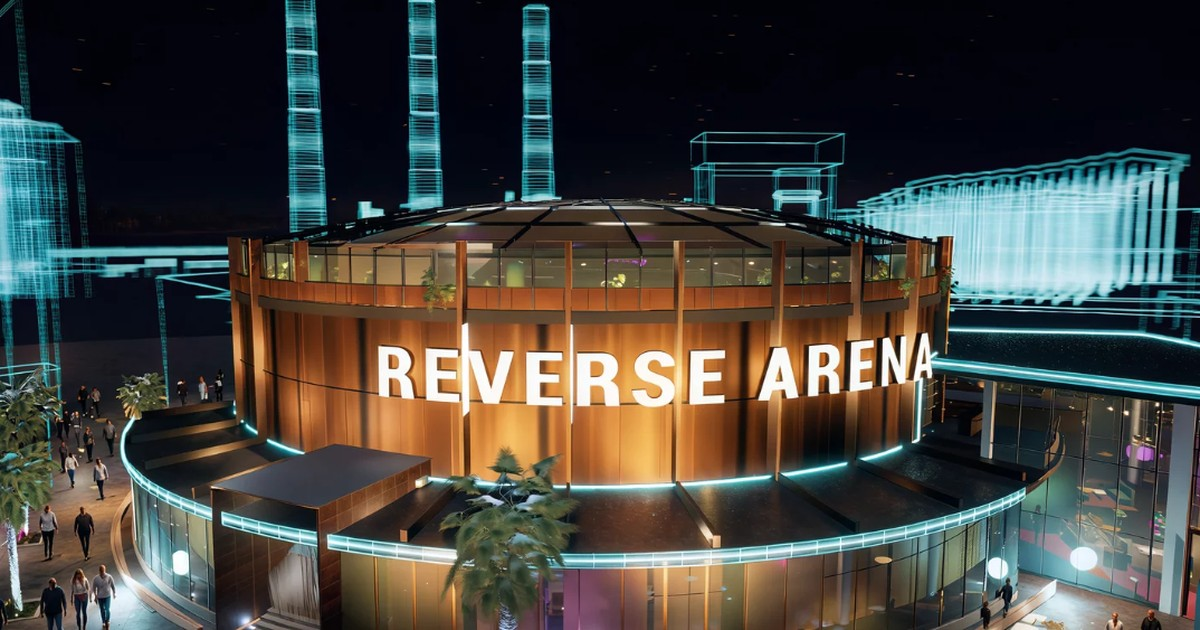
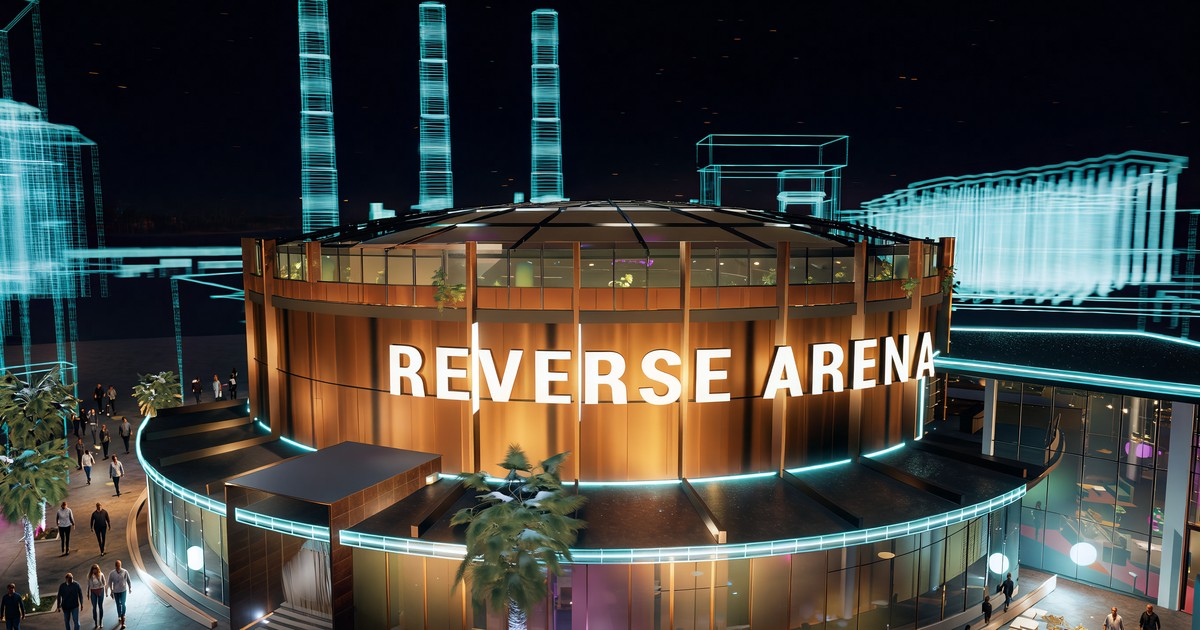
Title card and link picture from the Kling original; phones use their own full-screen player for both films
Claude-Session: https://claude.ai/code/session_017AzRbKXGXk6Kv6NqyS7rBT

diff --git a/index.html b/index.html
@@ -182,7 +182,7 @@ body.easy .top,body.easy .wrap,body.easy #ctl,body.easy #caption,body.easy #choo
 #introPlay{width:92px;height:92px;border-radius:50%;border:2px solid var(--gold);background:#0008;color:var(--gold);display:grid;place-items:center;cursor:pointer;transition:transform .15s,background .15s}
 #introPlay:hover{transform:scale(1.06);background:#f0c35a22} #introPlay svg{width:38px;height:38px;margin-left:6px}
 #introSkip{position:absolute;right:max(16px,env(safe-area-inset-right,0px));bottom:calc(16px + env(safe-area-inset-bottom,0px));z-index:3;border:1px solid var(--line2);background:#0009;color:var(--text);border-radius:999px;padding:9px 16px;font:500 13px Outfit,Arial,sans-serif;cursor:pointer}
-#intro.playing .ip{display:none} #intro .poster{position:absolute;inset:0;background:#000 center/cover no-repeat;opacity:.9}
+#intro .ip{transform:translateY(clamp(120px,27vh,260px))} #intro.playing .ip{display:none} #intro .poster{position:absolute;inset:0;background:#000 center/cover no-repeat;opacity:.9}
 #intro .poster::after{content:'';position:absolute;inset:0;background:radial-gradient(ellipse at center,#0006 0%,#0000 45%,#0007 100%)}
 /* v40: the arrival film opens the page; at its end the same picture says Start the Show */
 #intro #arrVid{display:none} #intro.arr #arrVid{display:block;z-index:1} #intro.arr #introVid{display:none}
@@ -198,8 +198,9 @@ body.easy .top,body.easy .wrap,body.easy #ctl,body.easy #caption,body.easy #choo
 @keyframes ssPulse{0%,100%{box-shadow:0 0 0 0 #f0c35a77}50%{box-shadow:0 0 0 16px #f0c35a00}}
 #intro.arr:not(.arr-end) #xsl{display:none!important} #intro.arr-end #xsl{opacity:1;pointer-events:auto}
 @media (prefers-reduced-motion:reduce){#startShow{animation:none}}
+@media (orientation:portrait){ #intro .poster{background-size:contain} #intro .ip{transform:translateY(clamp(110px,22vh,240px))} }
 @media (min-aspect-ratio:4/3){ #intro video{object-fit:cover} }
-#intro .ip{gap:clamp(10px,2.2vh,22px)}#intro .ip h1{order:1;font-size:clamp(24px,5.2vw,62px);letter-spacing:.14em;text-shadow:0 2px 22px #000c}#intro .ip small{order:2;font-size:clamp(14px,1.6vw,18px);letter-spacing:.06em;margin-top:-.3em;text-shadow:0 2px 14px #000c}/* 16 Nov, his note (the flat yellow disc was not stylish): dark glass, a thin gold ring, the arrow lit from inside, slow rings rippling out */#introPlay{order:3;margin-top:clamp(10px,3vh,34px);position:relative;width:clamp(96px,13vw,132px);height:clamp(96px,13vw,132px);border:1.5px solid #f0c35ad9;background:radial-gradient(circle at 50% 30%,#ffffff2e 0%,#17120a8c 55%,#0b0a0d99 100%);color:#f8d98a;-webkit-backdrop-filter:blur(12px) saturate(1.3);backdrop-filter:blur(12px) saturate(1.3);box-shadow:0 0 0 8px #f0c35a12,0 18px 54px #000d,inset 0 1px 0 #ffffff55,inset 0 -12px 26px #0009;animation:none}#introPlay::before,#introPlay::after{content:'';position:absolute;inset:-1.5px;border-radius:50%;border:1px solid #f0c35a;opacity:0;pointer-events:none;animation:ipRing 3.4s cubic-bezier(.2,.6,.3,1) infinite}#introPlay::after{animation-delay:1.7s}@keyframes ipRing{0%{transform:scale(1);opacity:.6}100%{transform:scale(1.8);opacity:0}}#introPlay svg{width:34%;height:34%;margin-left:7%;filter:drop-shadow(0 0 12px #f0c35a99)}#introPlay:hover{transform:scale(1.06);border-color:#ffe19a;background:radial-gradient(circle at 50% 30%,#ffffff45 0%,#2a2010a0 55%,#0b0a0d99 100%)}@media (prefers-reduced-motion:reduce){#introPlay::before,#introPlay::after{animation:none}}#intro .ip::after{content:'Play the film \00b7  90 seconds, with sound';order:4;font:500 clamp(12px,1.5vw,16px) Outfit,Arial,sans-serif;letter-spacing:.18em;text-transform:uppercase;color:#f6ecd6;text-shadow:0 2px 12px #000c}@keyframes ipPulse{0%{box-shadow:0 0 0 0 #f0c35a99,0 12px 40px #000a}70%{box-shadow:0 0 0 28px #f0c35a00,0 12px 40px #000a}100%{box-shadow:0 0 0 0 #f0c35a00,0 12px 40px #000a}}#intro .poster::after{background:radial-gradient(ellipse at center,#0008 0%,#0004 38%,#0000 70%)}#intro .poster{opacity:1}   /* the film's own first frame carries the name: the landing is the film and a play button */
+#intro .ip{gap:clamp(10px,2.2vh,22px)}#intro .ip h1{order:1;font-size:clamp(24px,5.2vw,62px);letter-spacing:.14em;text-shadow:0 2px 22px #000c}#intro .ip small{order:2;font-size:clamp(14px,1.6vw,18px);letter-spacing:.06em;margin-top:-.3em;text-shadow:0 2px 14px #000c}/* 16 Nov, his note (the flat yellow disc was not stylish): dark glass, a thin gold ring, the arrow lit from inside, slow rings rippling out */#introPlay{order:3;margin-top:clamp(10px,3vh,34px);position:relative;width:clamp(96px,13vw,132px);height:clamp(96px,13vw,132px);border:1.5px solid #f0c35ad9;background:radial-gradient(circle at 50% 30%,#ffffff2e 0%,#17120a8c 55%,#0b0a0d99 100%);color:#f8d98a;-webkit-backdrop-filter:blur(12px) saturate(1.3);backdrop-filter:blur(12px) saturate(1.3);box-shadow:0 0 0 8px #f0c35a12,0 18px 54px #000d,inset 0 1px 0 #ffffff55,inset 0 -12px 26px #0009;animation:none}#introPlay::before,#introPlay::after{content:'';position:absolute;inset:-1.5px;border-radius:50%;border:1px solid #f0c35a;opacity:0;pointer-events:none;animation:ipRing 3.4s cubic-bezier(.2,.6,.3,1) infinite}#introPlay::after{animation-delay:1.7s}@keyframes ipRing{0%{transform:scale(1);opacity:.6}100%{transform:scale(1.8);opacity:0}}#introPlay svg{width:34%;height:34%;margin-left:7%;filter:drop-shadow(0 0 12px #f0c35a99)}#introPlay:hover{transform:scale(1.06);border-color:#ffe19a;background:radial-gradient(circle at 50% 30%,#ffffff45 0%,#2a2010a0 55%,#0b0a0d99 100%)}@media (prefers-reduced-motion:reduce){#introPlay::before,#introPlay::after{animation:none}}#intro .ip::after{content:'Play the film, with sound';order:4;font:500 clamp(12px,1.5vw,16px) Outfit,Arial,sans-serif;letter-spacing:.18em;text-transform:uppercase;color:#f6ecd6;text-shadow:0 2px 12px #000c}@keyframes ipPulse{0%{box-shadow:0 0 0 0 #f0c35a99,0 12px 40px #000a}70%{box-shadow:0 0 0 28px #f0c35a00,0 12px 40px #000a}100%{box-shadow:0 0 0 0 #f0c35a00,0 12px 40px #000a}}#intro .poster::after{background:radial-gradient(ellipse at center,#0008 0%,#0004 38%,#0000 70%)}#intro .poster{opacity:1}   /* the film's own first frame carries the name: the landing is the film and a play button */
 /* 17 Nov: the backstage cross slider on the film (z-film.js, XS): Show on the left, the backstage director channel on the right */
 #xsl{position:absolute;left:50%;bottom:calc(18px + env(safe-area-inset-bottom,0px));transform:translateX(-50%);z-index:4;width:min(440px,calc(100% - 32px));box-sizing:border-box;display:flex;align-items:center;gap:4px;padding:5px 8px;border-radius:999px;background:#0a090ec4;border:1px solid #f0c35a3d;-webkit-backdrop-filter:blur(12px) saturate(1.2);backdrop-filter:blur(12px) saturate(1.2);box-shadow:0 10px 34px #0009;opacity:0;pointer-events:none;transition:opacity .45s;--x:0;-webkit-user-select:none;user-select:none}
 #xsl[hidden]{display:none!important}
@@ -239,7 +240,7 @@ body.easy #room canvas{transition:opacity .7s} body.ezwait #room canvas{opacity:
 </style>
 <div id="room">
   <canvas id="gl" aria-label="Three-dimensional model of the Reverse Arena Theater. Drag to look around, scroll or pinch to move closer, tap a seat to sit there."></canvas>
-  <div id="intro"><div class="poster" style="background-image:url(arrival-poster.jpg)"></div><div class="ver" style="position:absolute;left:14px;bottom:10px;font:500 11px Outfit,system-ui,sans-serif;letter-spacing:.16em;color:rgba(255,255,255,.55);z-index:5">VERSION 40a</div>
+  <div id="intro"><div class="poster" style="background-image:url(title-card.jpg)"></div><div class="ver" style="position:absolute;left:14px;bottom:10px;font:500 11px Outfit,system-ui,sans-serif;letter-spacing:.16em;color:rgba(255,255,255,.55);z-index:5">VERSION 40a</div>
     <div class="ip"><small>Turn the sound up and press play.</small><button id="introPlay" type="button" aria-label="Play the film"><svg viewBox="0 0 24 24" fill="currentColor"><path d="M7 4.5v15l13-7.5z"/></svg></button></div></div>
   <div id="choose" hidden><div class="ver" style="position:absolute;right:14px;bottom:10px;font:500 11px Outfit,system-ui,sans-serif;letter-spacing:.16em;color:rgba(255,255,255,.55)">VERSION 40a</div><div class="ch-in"><small>REVERSE ARENA THEATER &middot; BARCELONA</small><h2>Step inside</h2>
     <div class="ch-row"><button type="button" id="chTour"><b>Watch the tour</b><span>The room, built piece by piece, with your host</span></button>
@@ -455,7 +456,7 @@ function play(){ chooseHide(); I.hidden=false; I.classList.remove('gone'); I.cla
   window.__norender=true; if(IN.hooks.play) IN.hooks.play();
   const v=setup(); FV.want=true; if(v.currentTime>0){ try{ v.currentTime=0; }catch(e){} }
   if(!XS.ctx&&!XS.failed) xsInit(); xsGesture(); xsWake();   /* the backstage tracks: unlock the sound in this press */
-  const phone=isPhone(), ios=phone&&v.webkitEnterFullscreen&&!(document.fullscreenEnabled&&I.requestFullscreen)&&!xsUse();   /* iPhone: with the slider ready the film plays in the page so the slider stays in reach */
+  const phone=isPhone(), ios=phone&&v.webkitEnterFullscreen&&!(document.fullscreenEnabled&&I.requestFullscreen);   /* iPhone: with the slider ready the film plays in the page so the slider stays in reach */
   if(ios) XS.failed=true;
   if(ios){ v.removeAttribute('playsinline'); v.playsInline=false; }   // iPhone: without playsinline, play() opens the phone's own full-screen player
   startPlay(v);   // in the same tap, nothing waited on before it, so the sound is allowed
@@ -467,10 +468,15 @@ const AR={vid:null};
 { const e=document.createElement('div'); e.id='arrEnd'; e.hidden=true; e.innerHTML='<div id="ssBox"><div id="ssLabel">Start the Show</div><button id="startShow" type="button" aria-label="Start the show"><svg viewBox="0 0 24 24" fill="currentColor"><path d="M7 4.5v15l13-7.5z"/></svg></button></div>'; I.appendChild(e); }
 function arrLayout(){ const v=AR.vid, b=$('ssBox'); if(!b) return; const vw=(v&&v.videoWidth)||1280, vh=(v&&v.videoHeight)||720, W=I.clientWidth, H=I.clientHeight, cover=W/H>=4/3, k=cover?Math.max(W/vw,H/vh):Math.min(W/vw,H/vh), rw=vw*k, rh=vh*k, ox=(W-rw)/2, oy=(H-rh)/2; const D=92; const cx=ox+rw*0.5, cy=Math.max(H*0.42,Math.min(H*0.8,oy+rh*0.62)); b.style.width=b.style.height=D+'px'; b.style.left=(cx-D/2)+'px'; b.style.top=(cy-D/2)+'px'; }
 window.addEventListener('resize',()=>{ if(!$('arrEnd').hidden) arrLayout(); });
-function arrSetup(){ if(AR.vid) return AR.vid; const v=document.createElement('video'); v.id='arrVid'; v.src='f39/arrival.mp4'; v.setAttribute('playsinline',''); v.playsInline=true; v.preload='auto'; v.poster='arrival-poster.jpg'; I.insertBefore(v,I.querySelector('.ip')); v.addEventListener('ended',arrEnd); AR.vid=v; return v; }
-function arrEnd(){ if(!I.classList.contains('arr')||I.classList.contains('arr-end')) return; I.classList.add('arr-end'); $('arrEnd').hidden=false; arrLayout(); sk.hidden=true; sb.hidden=true; if(!XS.ctx&&!XS.failed) xsInit(); xsUI(); xsWake(); }
+function arrSetup(){ if(AR.vid) return AR.vid; const v=document.createElement('video'); v.id='arrVid'; v.src='f39/arrival.mp4'; v.setAttribute('playsinline',''); v.playsInline=true; v.preload='auto'; v.poster='title-card.jpg'; I.insertBefore(v,I.querySelector('.ip')); v.addEventListener('ended',arrEnd); v.addEventListener('webkitendfullscreen',()=>{ if(I.classList.contains('arr')&&!I.classList.contains('arr-end')){ try{ v.pause(); }catch(e){} arrEnd(); } }); AR.vid=v; return v; }
+function arrEnd(){ if(!I.classList.contains('arr')||I.classList.contains('arr-end')) return; I.classList.add('arr-end'); { const v=AR.vid; if(v){ try{ if(v.webkitDisplayingFullscreen) v.webkitExitFullscreen(); }catch(e){} v.setAttribute('playsinline',''); v.playsInline=true; } } $('arrEnd').hidden=false; arrLayout(); sk.hidden=true; sb.hidden=true; if(!XS.ctx&&!XS.failed) xsInit(); xsUI(); xsWake(); }
 function arrPlay(){ chooseHide(); FV.want=false; I.hidden=false; clearTimeout(AR.out); I.classList.remove('gone','arr-end','arr-out'); I.classList.add('playing','arr'); $('arrEnd').hidden=true; sk.hidden=false; sb.hidden=true; IN.playing=true; window.__norender=true; if(IN.hooks.play) IN.hooks.play();
-  const v=arrSetup(); try{ v.currentTime=0; }catch(e){} v.muted=false; v.volume=1; const pr=v.play(); if(pr&&pr.catch) pr.catch(()=>{ v.muted=true; v.play().catch(()=>{}); });
+  const v=arrSetup(); try{ v.currentTime=0; }catch(e){} v.muted=false; v.volume=1;
+  const phone=isPhone(), ios=phone&&v.webkitEnterFullscreen&&!(document.fullscreenEnabled&&I.requestFullscreen);   /* phones: the phone's own full-screen player, no browser bar (his call, 23 Nov) */
+  if(ios){ XS.failed=true; v.removeAttribute('playsinline'); v.playsInline=false; }
+  const pr=v.play(); if(pr&&pr.catch) pr.catch(()=>{ v.muted=true; v.play().catch(()=>{}); });
+  if(ios){ try{ if(v.readyState>=1&&!v.webkitDisplayingFullscreen) v.webkitEnterFullscreen(); }catch(e){} }
+  else if(phone&&I.requestFullscreen){ IN.fs=true; I.requestFullscreen({navigationUI:'hide'}).catch(()=>{ IN.fs=false; }); }
   if(!XS.ctx&&!XS.failed) xsInit(); if(XS.ctx) xsGesture(); }
 function arrToShow(){ const v=AR.vid; if(v){ try{ v.pause(); }catch(e){} } $('arrEnd').hidden=true; I.classList.remove('arr-end'); I.classList.add('arr-out'); play();   /* the last frame of the arrival film dissolves into the show: no jump */
   clearTimeout(AR.out); AR.out=setTimeout(()=>{ I.classList.remove('arr','arr-out'); },900); }
